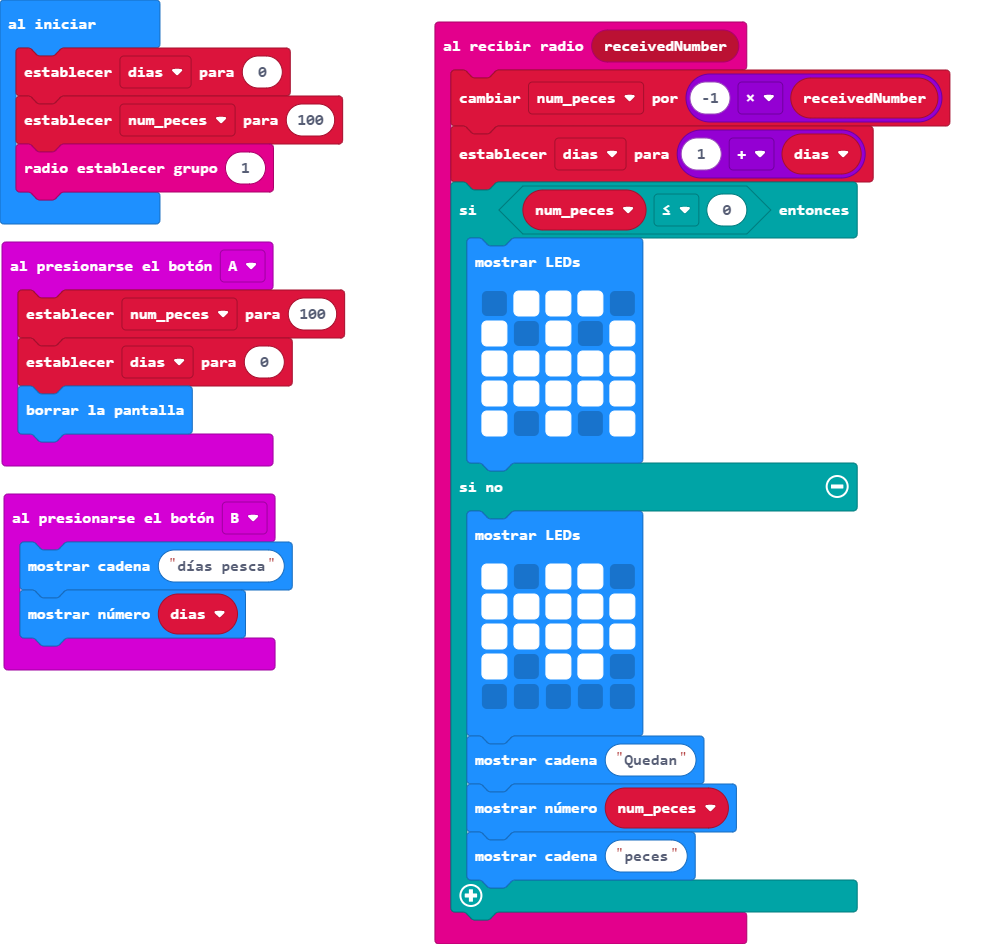
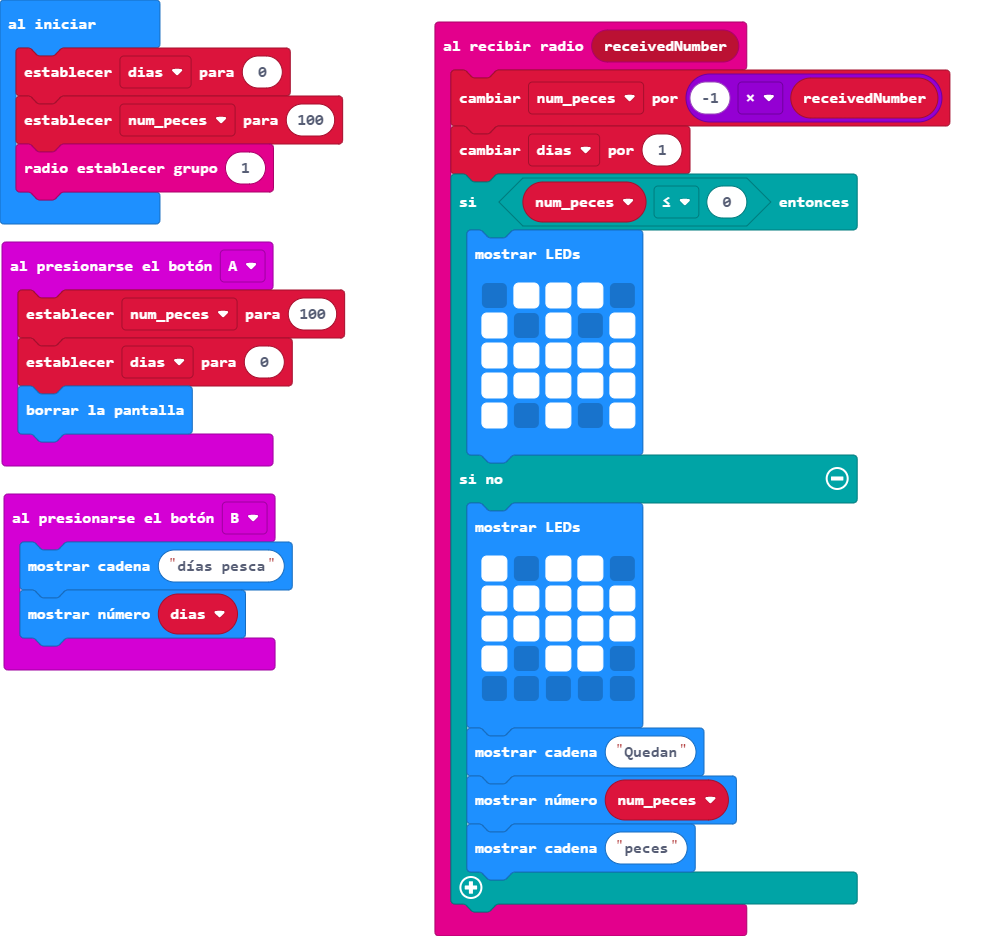
Update pxt.json, main.blocks, main.ts

diff --git a/main.ts b/main.ts
@@ -1,6 +1,6 @@
 radio.onReceivedNumber(function (receivedNumber) {
     num_peces += -1 * receivedNumber
-    dias = 1 + dias
+    dias += 1
     if (num_peces <= 0) {
         basic.showLeds(`
             . # # # .
